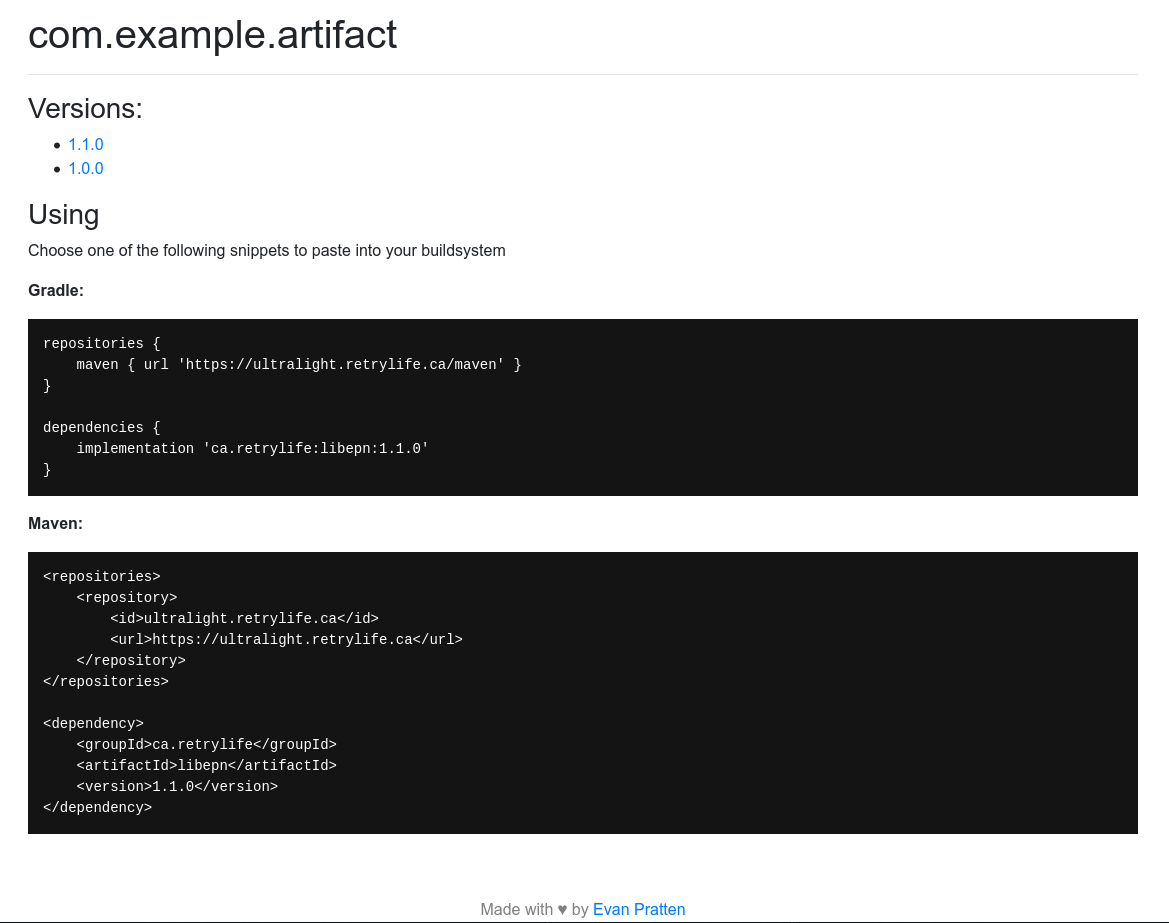
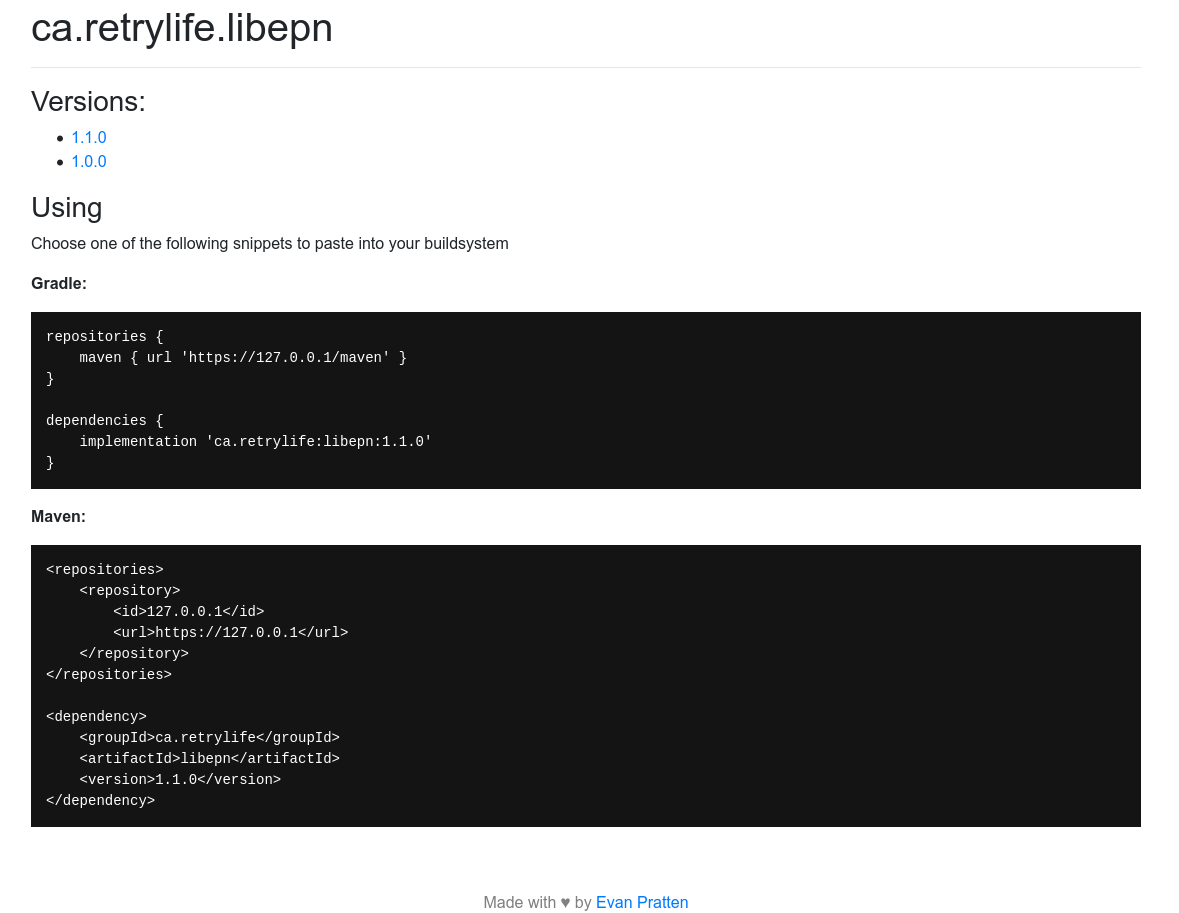
Make a title setting update

diff --git a/index.html b/index.html
@@ -85,7 +85,7 @@
         </div>
 
         <div class="container hidden" id="artifact">
-            <h1 id="package_name">com.example.artifact</h1>
+            <h1 id="package-name">com.example.artifact</h1>
             <hr>
 
             <h3>Versions:</h3>
@@ -184,7 +184,7 @@
                     document.getElementById("artifact").classList.remove("hidden");
 
                     // Set the title
-                    document.getElementById("package_name").innerText = group + "." + artifact;
+                    document.getElementById("package-name").innerText = group + "." + artifact;
 
                     // Iter each version
                     response.versions.forEach((version) => {
